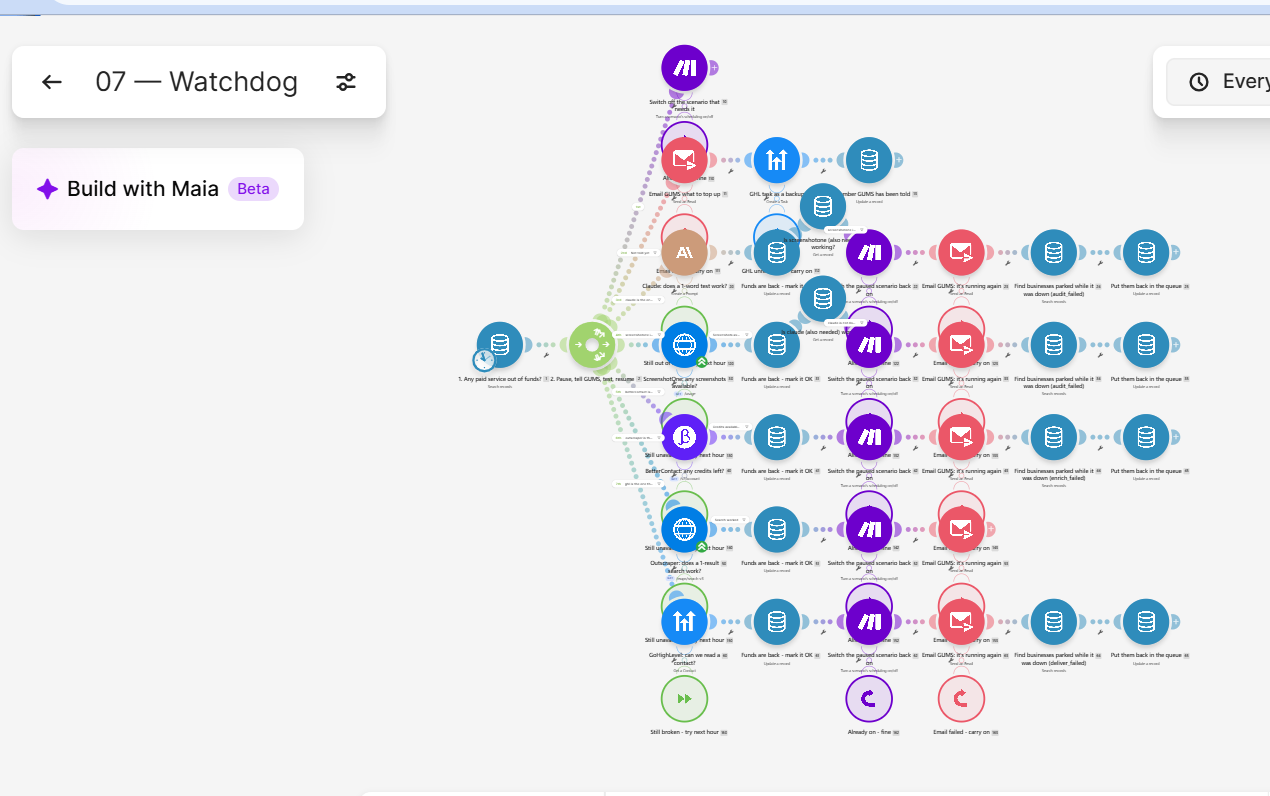
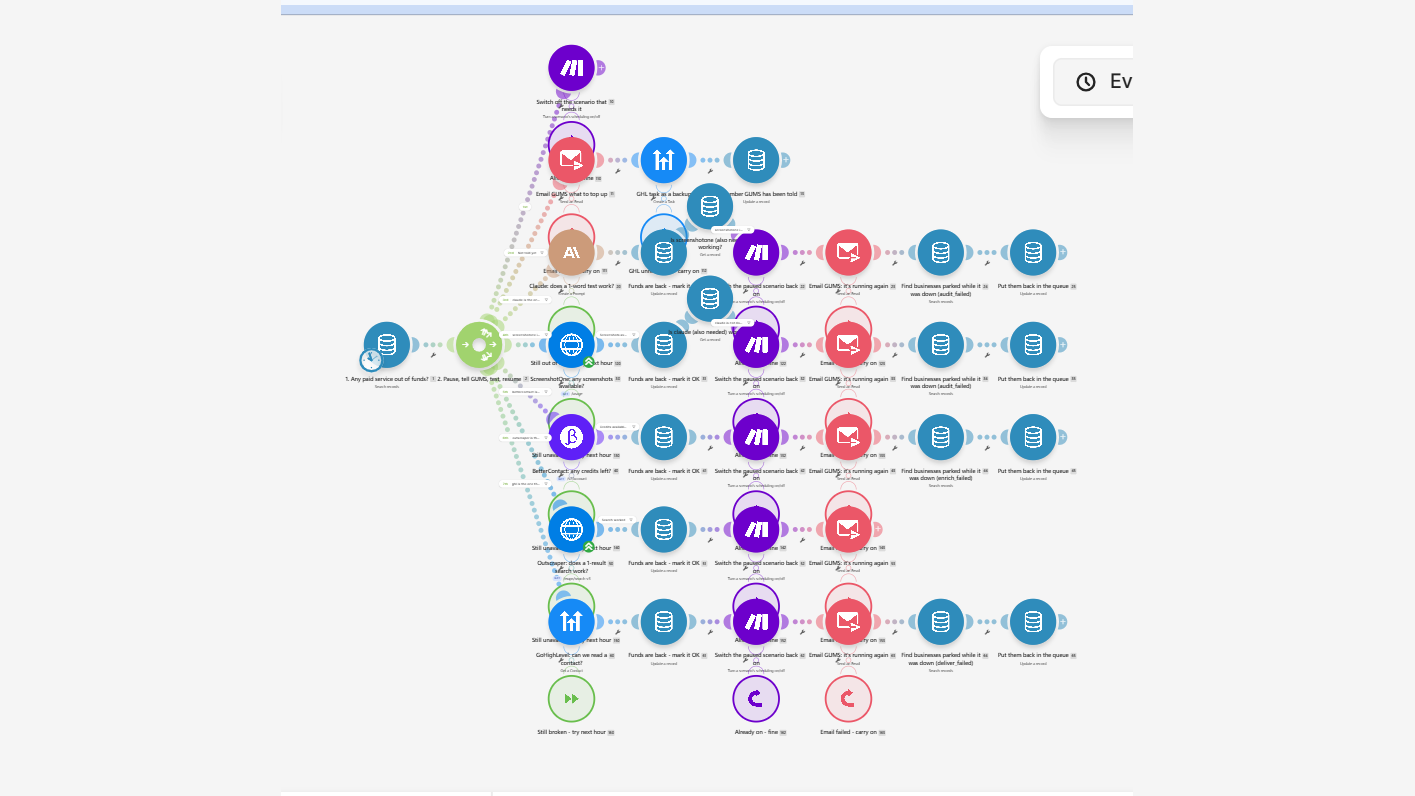
Show the agency workflows with the same marquee as "See the workflows"
The seven Make scenario shots were in a static three-column grid, which
cropped the diagrams, ran captions to three lines and left the seventh
card orphaned. They now use the exact showcase row: cards duplicated and
sliding on a 14s loop, faded edges, pause on hover and touch, swipe row on
phones, and the looping lightbox on click.

That row is extracted from WorkflowShowcase into ShotMarquee and used by
both sections so they cannot drift apart. The captures are trimmed to the
diagram and padded to 16:9 on the Make canvas colour, so each thumbnail
shows the whole flow. Captions are one line each.

diff --git a/src/components/FlagshipAgency.tsx b/src/components/FlagshipAgency.tsx
@@ -1,11 +1,7 @@
-"use client";
-
-import { useState } from "react";
-import Image from "next/image";
 import Reveal from "./Reveal";
 import BrandLogo from "./BrandLogo";
 import LoomEmbed from "./LoomEmbed";
-import Lightbox from "./Lightbox";
+import ShotMarquee from "./ShotMarquee";
 import CountUp from "./CountUp";
 
 const stats = [
@@ -47,13 +43,13 @@ const steps = [
 ];
 
 const shots: { src: string; caption: string }[] = [
-  { src: "/images/agency-audit/01-source-and-filter.png", caption: "01 Source & filter — Google Maps by city and trade, with closed, oversized and off-trade businesses dropped" },
-  { src: "/images/agency-audit/02-audit.png", caption: "02 Audit — screenshots and a speed test, then Claude judges the design and finds the owner" },
+  { src: "/images/agency-audit/01-source-and-filter.png", caption: "01 Source & filter — Google Maps by city and trade, wrong businesses dropped" },
+  { src: "/images/agency-audit/02-audit.png", caption: "02 Audit — screenshots, speed test, then Claude judges the site and finds the owner" },
   { src: "/images/agency-audit/03-enrich-and-score.png", caption: "03 Enrich & score — verified email lookup, then a score out of 95" },
-  { src: "/images/agency-audit/04-deliver-to-ghl.png", caption: "04 Deliver — contact, audit note and pipeline deal created in GoHighLevel, never twice" },
-  { src: "/images/agency-audit/05-housekeeping.png", caption: "05 Housekeeping — weekly cleanup of old records and retries for failed audits" },
+  { src: "/images/agency-audit/04-deliver-to-ghl.png", caption: "04 Deliver — contact, audit note and pipeline deal in GoHighLevel, never twice" },
+  { src: "/images/agency-audit/05-housekeeping.png", caption: "05 Housekeeping — weekly cleanup and retries for failed audits" },
   { src: "/images/agency-audit/06-daily-health-check.png", caption: "06 Daily health check — sourced, delivered and parked counts logged in the CRM" },
-  { src: "/images/agency-audit/07-watchdog.png", caption: "07 Watchdog — hourly credit checks on every paid service; pauses, emails the client, resumes when topped up" },
+  { src: "/images/agency-audit/07-watchdog.png", caption: "07 Watchdog — pauses any tool that runs out of credit, emails the client, resumes when paid" },
 ];
 
 const tools = [
@@ -68,8 +64,6 @@ const tools = [
 ];
 
 export default function FlagshipAgency() {
-  const [lightbox, setLightbox] = useState<number | null>(null);
-
   return (
     <section className="border-t border-border">
       <div className="mx-auto max-w-6xl px-6 py-16 sm:py-24">
@@ -148,41 +142,18 @@ export default function FlagshipAgency() {
           </div>
         </Reveal>
 
-        {shots.length > 0 && (
-          <Reveal delay={250} className="mt-12 sm:mt-16">
-            <p className="text-center font-mono text-sm font-semibold tracking-widest text-accent">
-              THE WORKFLOWS
-            </p>
-            <p className="mx-auto mt-3 max-w-lg text-center text-muted">
-              The seven Make scenarios behind it, including the ones that keep
-              it healthy. Click a shot to look closer.
-            </p>
-            <div className="mt-8 grid gap-6 sm:grid-cols-3">
-              {shots.map((shot, i) => (
-                <button
-                  key={shot.src}
-                  onClick={() => setLightbox(i)}
-                  className="card-hover text-left"
-                >
-                  <figure>
-                    <div className="relative aspect-video w-full overflow-hidden rounded-lg border border-border">
-                      <Image
-                        src={shot.src}
-                        alt={shot.caption}
-                        fill
-                        sizes="(max-width: 768px) 100vw, 33vw"
-                        className="object-cover object-top"
-                      />
-                    </div>
-                    <figcaption className="mt-2 text-center text-sm text-muted">
-                      {shot.caption}
-                    </figcaption>
-                  </figure>
-                </button>
-              ))}
-            </div>
-          </Reveal>
-        )}
+        <Reveal delay={250} className="mt-12 sm:mt-16">
+          <p className="text-center font-mono text-sm font-semibold tracking-widest text-accent">
+            THE WORKFLOWS
+          </p>
+          <p className="mx-auto mt-3 max-w-lg text-center text-muted">
+            The seven Make scenarios behind it, including the ones that keep
+            it healthy. Click any shot to look closer.
+          </p>
+          <div className="mt-8">
+            <ShotMarquee shots={shots} />
+          </div>
+        </Reveal>
 
         <Reveal delay={300} className="mt-12 text-center sm:mt-14">
           <p className="mx-auto max-w-xl text-muted">
@@ -198,14 +169,6 @@ export default function FlagshipAgency() {
         </Reveal>
       </div>
 
-      {lightbox !== null && (
-        <Lightbox
-          shots={shots}
-          index={lightbox}
-          onClose={() => setLightbox(null)}
-          onIndexChange={setLightbox}
-        />
-      )}
     </section>
   );
 }

diff --git a/src/components/WorkflowShowcase.tsx b/src/components/WorkflowShowcase.tsx
@@ -1,17 +1,13 @@
 "use client";
 
 import { useState } from "react";
-import Image from "next/image";
 import Reveal from "./Reveal";
-import Lightbox from "./Lightbox";
+import ShotMarquee from "./ShotMarquee";
 import { workflowsByPlatform } from "@/data/workflowProof";
 
 export default function WorkflowShowcase() {
   const [active, setActive] = useState(0);
-  const [lightbox, setLightbox] = useState<number | null>(null);
-  const [paused, setPaused] = useState(false);
   const current = workflowsByPlatform[active];
-  const track = [...current.shots, ...current.shots];
 
   return (
     <section className="border-y border-border bg-surface">
@@ -33,10 +29,7 @@ export default function WorkflowShowcase() {
           {workflowsByPlatform.map((group, i) => (
             <button
               key={group.platform}
-              onClick={() => {
-                setActive(i);
-                setLightbox(null);
-              }}
+              onClick={() => setActive(i)}
               className={`rounded-full px-5 py-2.5 font-mono text-sm font-semibold transition-colors ${
                 i === active
                   ? "bg-navy text-white"
@@ -49,51 +42,10 @@ export default function WorkflowShowcase() {
         </Reveal>
 
         <Reveal delay={150} className="mt-10">
-          {/* Phones: a native swipe row with snap points. sm and up: the auto-scrolling marquee. */}
-          <div
-            className="no-scrollbar marquee-pausable -mx-6 snap-x snap-mandatory overflow-x-auto px-6 sm:mx-0 sm:marquee-fade sm:snap-none sm:overflow-hidden sm:px-0"
-            onTouchStart={() => setPaused(true)}
-            onTouchEnd={() => setPaused(false)}
-            onTouchCancel={() => setPaused(false)}
-          >
-            <div
-              className="flex w-max gap-4 sm:marquee-track sm:gap-6"
-              style={paused ? { animationPlayState: "paused" } : undefined}
-            >
-              {track.map((shot, i) => (
-                <button
-                  key={`${shot.src}-${i}`}
-                  onClick={() => setLightbox(i % current.shots.length)}
-                  className={`card-hover w-72 shrink-0 snap-start rounded-lg border border-border bg-background text-left ${
-                    i >= current.shots.length ? "hidden sm:block" : ""
-                  }`}
-                >
-                  <div className="relative aspect-video w-full overflow-hidden rounded-t-lg">
-                    <Image
-                      src={shot.src}
-                      alt={shot.caption}
-                      fill
-                      sizes="288px"
-                      className="object-cover object-top"
-                    />
-                  </div>
-                  <p className="px-3 py-2 text-xs text-muted">{shot.caption}</p>
-                </button>
-              ))}
-            </div>
-          </div>
+          {/* Keyed by platform so switching tabs restarts the loop and closes any open lightbox. */}
+          <ShotMarquee key={current.platform} shots={current.shots} />
         </Reveal>
       </div>
-
-      {lightbox !== null && (
-        <Lightbox
-          shots={current.shots}
-          index={lightbox}
-          onClose={() => setLightbox(null)}
-          onIndexChange={setLightbox}
-          loop
-        />
-      )}
     </section>
   );
 }

diff --git a/src/components/ShotMarquee.tsx b/src/components/ShotMarquee.tsx
@@ -1,0 +1,67 @@
+"use client";
+
+import { useState } from "react";
+import Image from "next/image";
+import Lightbox, { type LightboxShot } from "./Lightbox";
+
+/**
+ * The auto-scrolling row of screenshot cards used under "See the workflows".
+ *
+ * - From the sm breakpoint up: the shots are laid out twice and the track
+ *   slides left by half its width on a 14s loop, so it never visibly jumps.
+ *   Edges fade out, and the loop pauses while the mouse is over it.
+ * - On phones: a native swipe row with snap points, one card at a time.
+ * - Clicking any card opens the lightbox with looping previous/next.
+ */
+export default function ShotMarquee({ shots }: { shots: LightboxShot[] }) {
+  const [lightbox, setLightbox] = useState<number | null>(null);
+  const [paused, setPaused] = useState(false);
+  const track = [...shots, ...shots];
+
+  return (
+    <>
+      <div
+        className="no-scrollbar marquee-pausable -mx-6 snap-x snap-mandatory overflow-x-auto px-6 sm:mx-0 sm:marquee-fade sm:snap-none sm:overflow-hidden sm:px-0"
+        onTouchStart={() => setPaused(true)}
+        onTouchEnd={() => setPaused(false)}
+        onTouchCancel={() => setPaused(false)}
+      >
+        <div
+          className="flex w-max gap-4 sm:marquee-track sm:gap-6"
+          style={paused ? { animationPlayState: "paused" } : undefined}
+        >
+          {track.map((shot, i) => (
+            <button
+              key={`${shot.src}-${i}`}
+              onClick={() => setLightbox(i % shots.length)}
+              className={`card-hover w-72 shrink-0 snap-start rounded-lg border border-border bg-background text-left ${
+                i >= shots.length ? "hidden sm:block" : ""
+              }`}
+            >
+              <div className="relative aspect-video w-full overflow-hidden rounded-t-lg">
+                <Image
+                  src={shot.src}
+                  alt={shot.caption}
+                  fill
+                  sizes="288px"
+                  className="object-cover object-top"
+                />
+              </div>
+              <p className="px-3 py-2 text-xs text-muted">{shot.caption}</p>
+            </button>
+          ))}
+        </div>
+      </div>
+
+      {lightbox !== null && (
+        <Lightbox
+          shots={shots}
+          index={lightbox}
+          onClose={() => setLightbox(null)}
+          onIndexChange={setLightbox}
+          loop
+        />
+      )}
+    </>
+  );
+}
